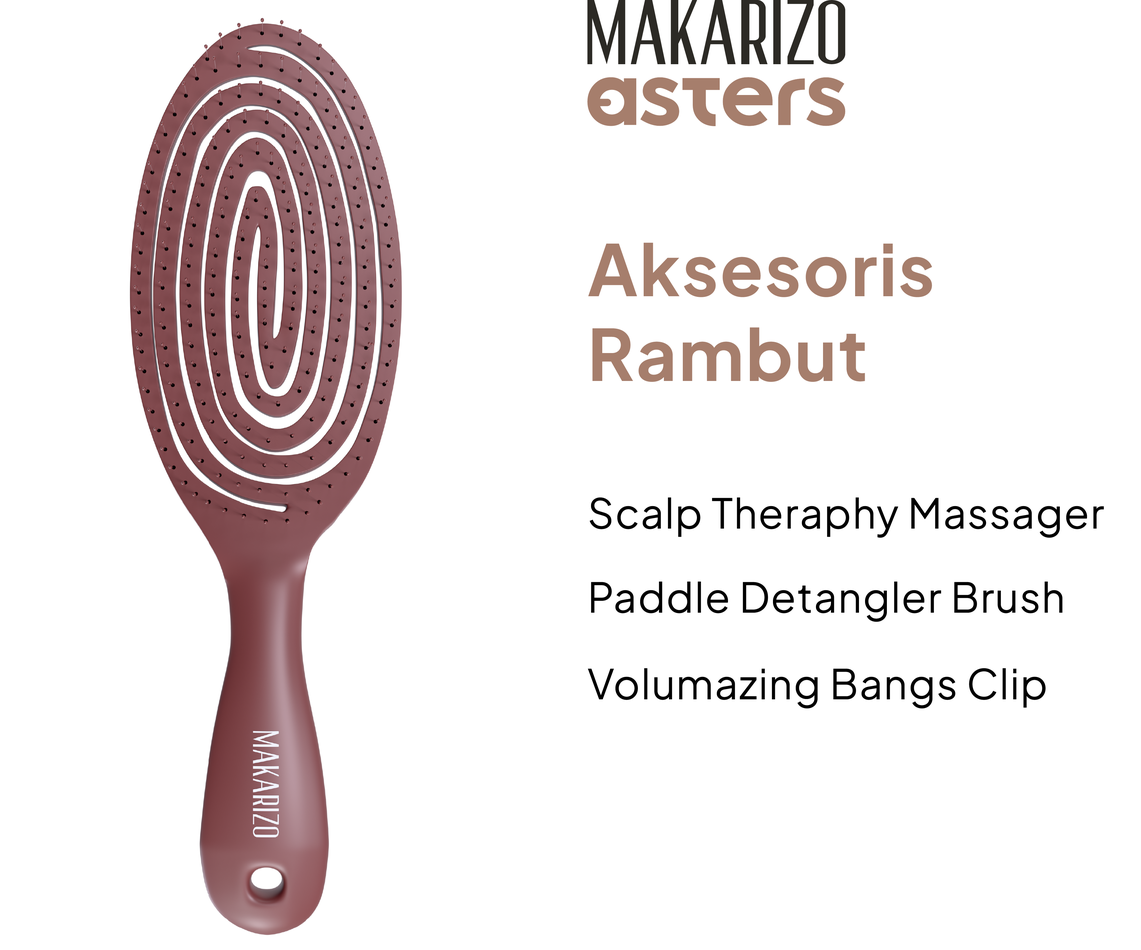
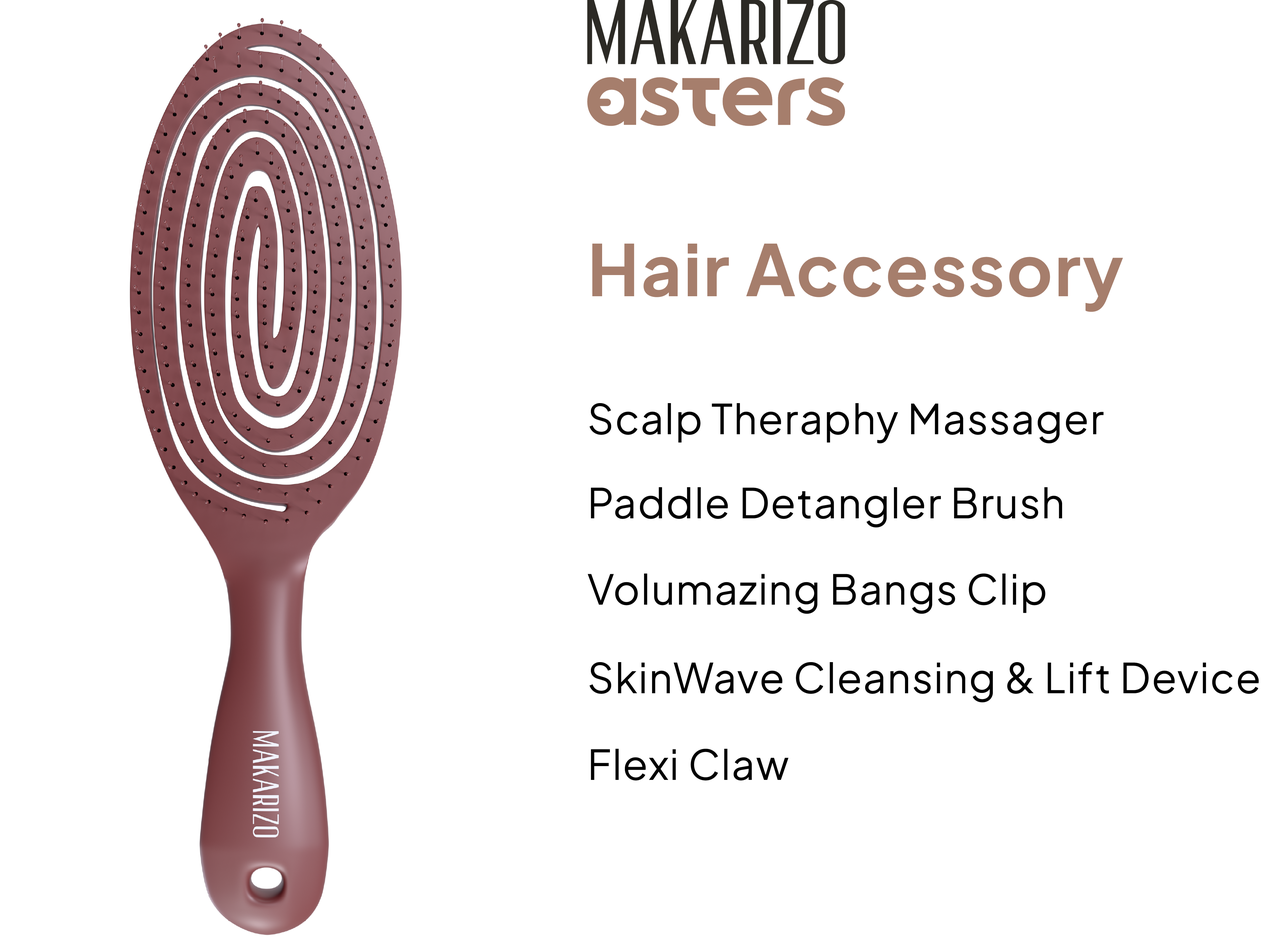
[IMP] : Update komposisi hero, showcase, dan aset berbagai brand
- Sesuaikan ukuran serta posisi produk pada hero dan showcase berbagai brand
- Tambahkan dukungan image fit dan object position untuk kartu sub-brand
- Tambahkan dua kartu showcase Asters Hair Accessories
- Lengkapi aset hero Advisor RX versi Indonesia
- Perbarui aset visual bilingual dan dokumentasi panduan aset

diff --git a/content/brands/055-advisor-rx.ts b/content/brands/055-advisor-rx.ts
@@ -26,20 +26,23 @@ const entry: Brand = {
     // Layered parallax banner, same pattern as Hair Energy: the product cluster sits
     // on the right of a flat clinical banner, wordmark + copy on the left. Array
     // order = stacking (last = front). Every canvas carries a DIFFERENT amount of
-    // transparent margin (the bottle fills only 67 % / 71 % / 85 % of its canvas
+    // transparent margin (the product fills a different fraction of each canvas
     // height), so the widths below are tuned per asset — they are deliberately not
-    // the same number — to land the three products at their true relative sizes
-    // (250 mL shampoo > 100 mL mask > 40 mL serum) and on a shared baseline.
+    // the same number — to land all four products at their true relative sizes
+    // (250 mL shampoo > 100 mL mask/tonic > 40 mL serum) and on a shared baseline.
     heroLayers: [
-      // Strong Hair Shampoo (250 mL) — largest, left of the cluster, enters from the LEFT (1st).
-      { src: "/brand/advisor-rx/hero/1.png", depth: 36, enterFrom: "left", enterDelay: 0, width: "min(41vw, 72vh)", maxWidth: "1944px", aspectRatio: "1 / 1", left: "39%", top: "15%",
-        mobile: { left: "-8.5%", top: "25%", width: "min(84vw, 42vh)" } },
-      // Strong Hair Boosting Mask (100 mL) — middle, enters from the TOP (2nd).
-      { src: "/brand/advisor-rx/hero/2.png", depth: 54, enterFrom: "top", enterDelay: 0.2, width: "min(30vw, 53vh)", maxWidth: "1493px", aspectRatio: "1 / 1", left: "56.5%", top: "30%",
+      // Strong Hair Boosting Mask (100 mL) — middle, enters from the TOP (1st).
+      { src: "/brand/advisor-rx/hero/2.png", depth: 54, enterFrom: "top", enterDelay: 0.2, width: "min(40vw, 63vh)", maxWidth: "1493px", aspectRatio: "1 / 1", left: "59%", top: "8%",
         mobile: { left: "29.5%", top: "35%", width: "min(60vw, 30vh)" } },
-      // Strong Hair Scalp Serum (40 mL) — smallest, front/right, enters from the RIGHT (3rd).
-      { src: "/brand/advisor-rx/hero/3.png", depth: 72, enterFrom: "right", enterDelay: 0.4, width: "min(13vw, 23vh)", maxWidth: "746px", aspectRatio: "1491 / 2058", left: "75.5%", top: "47%",
+      // Strong Hair Shampoo (250 mL) — largest, left of the cluster, enters from the LEFT (2nd).
+      { src: "/brand/advisor-rx/hero/1.png", depth: 36, enterFrom: "left", enterDelay: 0, width: "min(51vw, 82vh)", maxWidth: "1944px", aspectRatio: "1 / 1", left: "46.4%", top: "11.7%",
+        mobile: { left: "-8.5%", top: "25%", width: "min(84vw, 42vh)" } },
+      // Strong Hair Scalp Serum (40 mL) — smallest, front/right, enters from the RIGHT (4th).
+      { src: "/brand/advisor-rx/hero/4.png", depth: 84, enterFrom: "right", enterDelay: 0.6, width: "min(20vw, 30vh)", maxWidth: "746px", aspectRatio: "1491 / 2058", left: "67.8%", top: "49.5%",
         mobile: { left: "68%", top: "43.5%", width: "min(26vw, 13vh)" } },
+      // Strong Hair Tonic (100 mL) — between the mask and serum, enters from the RIGHT (3rd).
+      { src: "/brand/advisor-rx/hero/3.png", depth: 72, enterFrom: "right", enterDelay: 0.4, width: "min(40vw, 74vh)", maxWidth: "1711px", aspectRatio: "1 / 1", left: "62%", top: "17%",
+        mobile: { left: "35%", top: "33%", width: "min(72vw, 34vh)" } },
     ],
     // The wordmark is a plain lockup with no tagline baked in (unlike VICA/Wonhae),
     // so this hero keeps the full Hair Energy overlay: wordmark + tagline + subtitle
@@ -102,9 +105,11 @@ const entry: Brand = {
         // as wide as the banner (frameRatio ÷ clusterRatio). All values are %, so the
         // composition scales identically on mobile; no per-viewport override needed.
         // STRONG HAIR — 4-step regimen (cluster 5423×3139 → 2.127 / 1.728 ≈ 123 %)
-        { bg: "/brand/advisor-rx/showcase/1-2.png", product: "/brand/advisor-rx/showcase/1-1.png", bgAspect: "4810 / 2261", productAspect: "5423 / 3139", productHeight: "123%", href: "/brands/advisor-rx/strong-hair" },
+        { bg: "/brand/advisor-rx/showcase/1-2.png", product: "/brand/advisor-rx/showcase/1-1.png", bgAspect: "4810 / 2261", 
+          productAspect: "5423 / 3139", productHeight: "123%", productShiftY: "10%", href: "/brands/advisor-rx/strong-hair" },
         // GREY HAIR — 3-step regimen (cluster 5592×2330 → 2.128 / 2.400 ≈ 89 %)
-        { bg: "/brand/advisor-rx/showcase/2-2.png", product: "/brand/advisor-rx/showcase/2-1.png", bgAspect: "4810 / 2260", productAspect: "5592 / 2330", productHeight: "89%", href: "/brands/advisor-rx/grey-hair" },
+        { bg: "/brand/advisor-rx/showcase/2-2.png", product: "/brand/advisor-rx/showcase/2-1.png", bgAspect: "4810 / 2260", 
+          productAspect: "5592 / 2330", productHeight: "89%", productShiftY: "2%", href: "/brands/advisor-rx/grey-hair" },
       ],
     },
   };

diff --git a/content/brands/050-advisor.ts b/content/brands/050-advisor.ts
@@ -25,8 +25,6 @@ const entry: Brand = {
     // transparent padding, so the widths below are tuned per asset to make the three
     // bottles read at a comparable *visual* size (they are NOT the same number).
     heroLayers: [
-      { src: "/brand/advisor/hero/3.png", depth: 32, enterFrom: "top", enterDelay: 0.1, width: "min(24vw, 43vh)", aspectRatio: "1814 / 2527", left: "63%", top: "7%",
-        mobile: { left: "35%", top: "27%", width: "min(58vw, 32vh)" } },
       // Dual Defense Shampoo — front/centre, sits slightly lower, enters from the TOP (2nd).
       { src: "/brand/advisor/hero/2.png", depth: 72, enterFrom: "top", enterDelay: 0.2, width: "min(41vw, 65vh)", aspectRatio: "2812 / 3502", left: "56%", top: "5%",
         mobile: { left: "4%", top: "20.5%", width: "min(78vw, 38vh)" } },
@@ -34,8 +32,8 @@ const entry: Brand = {
       { src: "/brand/advisor/hero/1.png", depth: 36, enterFrom: "left", enterDelay: 0, width: "min(23vw, 36vh)", aspectRatio: "1560 / 2402", left: "57.7%", top: "39%",
         mobile: { left: "11.5%", top: "43%", width: "min(40vw, 26vh)" } },
       // Hair Mask Repair — back row, right of the cluster, enters from the RIGHT (3rd).
-      { src: "/brand/advisor/hero/4.png", depth: 27, enterFrom: "right", enterDelay: 0.4, width: "min(23vw, 36vh)", aspectRatio: "1814 / 2527", left: "60.8%", top: "23%",
-        mobile: { left: "40%", top: "33%", width: "min(40vw, 20vh)" } },
+      { src: "/brand/advisor/hero/3.png", depth: 32, enterFrom: "top", enterDelay: 0.1, width: "min(24vw, 43vh)", aspectRatio: "1814 / 2527", left: "69.5%", top: "30%",
+        mobile: { left: "35%", top: "27%", width: "min(58vw, 32vh)" } },
     ],
     // The wordmark carries no tagline of its own (unlike VICA/Wonhae), so the hero
     // keeps the full Hair Energy overlay: wordmark + tagline + subtitle + CTA. Copy is
@@ -97,15 +95,15 @@ const entry: Brand = {
         // banner — the Hair Energy proportion. All values are %, so the composition
         // scales identically on mobile; no per-viewport override is needed.
         // CLINICAL SHAMPOO — Dual Defense Shampoo
-        { bg: "/brand/advisor/showcase/1-2.png", product: "/brand/advisor/showcase/1-1.png", bgAspect: "4810 / 2260", productAspect: "1 / 1", productHeight: "150%" },
+        { bg: "/brand/advisor/showcase/1-2.png", product: "/brand/advisor/showcase/1-1.png", bgAspect: "4810 / 2260", productAspect: "1 / 1", productHeight: "125%", productShiftY: "-3%", },
         // HAIR MASK — Hair Mask Repair
-        { bg: "/brand/advisor/showcase/2-2.png", product: "/brand/advisor/showcase/2-1.png", bgAspect: "4810 / 2261", productAspect: "1 / 1", productHeight: "177%" },
+        { bg: "/brand/advisor/showcase/2-2.png", product: "/brand/advisor/showcase/2-1.png", bgAspect: "4810 / 2261", productAspect: "1 / 1", productHeight: "154%" },
         // HAIR TONIC — Hair & Scalp Tonic
-        { bg: "/brand/advisor/showcase/3-2.png", product: "/brand/advisor/showcase/3-1.png", bgAspect: "4810 / 2260", productAspect: "2652 / 3400", productHeight: "180%" },
+        { bg: "/brand/advisor/showcase/3-2.png", product: "/brand/advisor/showcase/3-1.png", bgAspect: "4810 / 2260", productAspect: "2652 / 3400", productHeight: "150%", productShiftY: "5%", },
         // VITAMAX — Hair Recovery Vitamax
-        { bg: "/brand/advisor/showcase/4-2.png", product: "/brand/advisor/showcase/4-1.png", bgAspect: "4810 / 2260", productAspect: "1 / 1", productHeight: "158%" },
+        { bg: "/brand/advisor/showcase/4-2.png", product: "/brand/advisor/showcase/4-1.png", bgAspect: "4810 / 2260", productAspect: "1 / 1", productHeight: "140%", productShiftY: "2%", },
         // KERATIN SPRAY — Hair Protection Keratin Spray
-        { bg: "/brand/advisor/showcase/5-2.png", product: "/brand/advisor/showcase/5-1.png", bgAspect: "4810 / 2260", productAspect: "1 / 1", productHeight: "152%" },
+        { bg: "/brand/advisor/showcase/5-2.png", product: "/brand/advisor/showcase/5-1.png", bgAspect: "4810 / 2260", productAspect: "1 / 1", productHeight: "132%", productShiftY: "3.5%", },
       ],
     },
   };

diff --git a/content/sub-brands/110-inoskin--young-and-bright.ts b/content/sub-brands/110-inoskin--young-and-bright.ts
@@ -22,27 +22,27 @@ const entry: SubBrand = {
     // the lg breakpoint; the third `px` term on the serum caps it at half its natural
     // 1471px width so it stays sharp at DPR 2 on very wide screens.
     heroLayers: [
-      { src: "/brand/inoskin/young-and-bright/hero/2.png", enterFrom: "right", enterDelay: 0.4, depth: 34, width: "min(31vw, 60vh, 1196px)", aspectRatio: "2391 / 4018", left: "63%", top: "6%",
+      { src: "/brand/inoskin/young-and-bright/hero/2.png", enterFrom: "right", enterDelay: 0.4, depth: 34, width: "min(27vw, 56vh, 1196px)", aspectRatio: "2391 / 4018", left: "62%", top: "11%",
         mobile: { left: "46.5%", top: "-5.6%", width: "60%" } },
-      { src: "/brand/inoskin/young-and-bright/hero/1.png", enterFrom: "left", enterDelay: 0.2, depth: 48, width: "min(30vw, 60vh, 1133px)", aspectRatio: "2265 / 3199", left: "54%", top: "10%",
+      { src: "/brand/inoskin/young-and-bright/hero/1.png", enterFrom: "left", enterDelay: 0.2, depth: 48, width: "min(26vw, 56vh, 1133px)", aspectRatio: "2265 / 3199", left: "54.5%", top: "15%",
         mobile: { left: "2.3%", top: "-6%", width: "58%" } },
-      { src: "/brand/inoskin/young-and-bright/hero/3.png", enterFrom: "right", enterDelay: 0.6, depth: 62, width: "min(22.5vw, 40vh, 735px)", aspectRatio: "1471 / 2306", left: "73%", top: "30%",
+      { src: "/brand/inoskin/young-and-bright/hero/3.png", enterFrom: "right", enterDelay: 0.6, depth: 62, width: "min(18.5vw, 36vh, 735px)", aspectRatio: "1471 / 2306", left: "72.5%", top: "35%",
         mobile: { left: "35.6%", top: "22.8%", width: "46%" } },
     ],
     showcaseTitle: "/brand/inoskin/young-and-bright/showcase/title.png",
     showcaseTitleAspect: "4834 / 3846",
     // No `featured` slot: every card asset in this folder is a portrait SKU card —
     // there is no landscape hero card, and the reference doesn't show one either.
-    // `cardAspect` follows the TALLEST card (1.png, 2304×3281) so all five keep an
-    // identical column width under `object-contain`; the shorter cards simply centre
-    // inside their box rather than being scaled down and narrowed.
-    cardAspect: "2304 / 3281",
+    // The visible card canvas is consistently 2304×2987. Files 1, 2 and 5 carry extra
+    // transparent canvas padding on different edges, so cover + edge anchoring trims
+    // only that padding and keeps every visible card aligned with equal grid gaps.
+    cardAspect: "2304 / 2987",
     cards: [
-      { image: "/brand/inoskin/young-and-bright/showcase/1.png", label: { en: "Young and Bright Toner", id: "Young and Bright Toner" } },
-      { image: "/brand/inoskin/young-and-bright/showcase/2.png", label: { en: "Young and Bright Serum", id: "Young and Bright Serum" } },
-      { image: "/brand/inoskin/young-and-bright/showcase/3.png", label: { en: "Young and Bright Moisturizer", id: "Young and Bright Moisturizer" } },
-      { image: "/brand/inoskin/young-and-bright/showcase/4.png", label: { en: "Collagen Firming Mask", id: "Masker Pengencang Collagen" } },
-      { image: "/brand/inoskin/young-and-bright/showcase/5.png", label: { en: "Triple Power Cleanser", id: "Pembersih Wajah Triple Power" } },
+      { image: "/brand/inoskin/young-and-bright/showcase/1.png", imageFit: "cover", imagePosition: "bottom", label: { en: "Young and Bright Toner", id: "Young and Bright Toner" } },
+      { image: "/brand/inoskin/young-and-bright/showcase/2.png", imageFit: "cover", imagePosition: "top", label: { en: "Young and Bright Serum", id: "Young and Bright Serum" } },
+      { image: "/brand/inoskin/young-and-bright/showcase/3.png", imageFit: "cover", label: { en: "Young and Bright Moisturizer", id: "Young and Bright Moisturizer" } },
+      { image: "/brand/inoskin/young-and-bright/showcase/4.png", imageFit: "cover", label: { en: "Collagen Firming Mask", id: "Masker Pengencang Collagen" } },
+      { image: "/brand/inoskin/young-and-bright/showcase/5.png", imageFit: "cover", imagePosition: "bottom", label: { en: "Triple Power Cleanser", id: "Pembersih Wajah Triple Power" } },
     ],
   };
 

diff --git a/content/brands/110-honey-dew.ts b/content/brands/110-honey-dew.ts
@@ -33,15 +33,15 @@ const entry: Brand = {
     heroLayers: [
       // Deep Moist & Shine Shampoo — back, highest, enters from the TOP (1st).
       // Visible bottle ≈ 15.5 vw wide, spanning 14 %–43 % of the banner height.
-      { src: "/brand/honey-dew/hero/2.png", depth: 36, enterFrom: "top", enterDelay: 0, width: "min(30vw, 34vh)", maxWidth: "836px", aspectRatio: "1672 / 2451", left: "65.5%", top: "16.5%",
+      { src: "/brand/honey-dew/hero/2.png", depth: 36, enterFrom: "top", enterDelay: 0, width: "min(40vw, 42vh)", maxWidth: "836px", aspectRatio: "1672 / 2451", left: "63.5%", top: "10.5%",
         mobile: { left: "26%", top: "25%", width: "min(42vw, 24vh)" } },
       // Repair Mask — in front of the bottle and a touch larger than it (the
       // reference sizes the tube at ~1.15× the bottle); visible tube ≈ 17.5 vw,
       // spanning 24 %–58 % of the banner height.
-      { src: "/brand/honey-dew/hero/3.png", depth: 66, enterFrom: "right", enterDelay: 0.3, width: "min(45.7vw, 54vh)", maxWidth: "1529px", aspectRatio: "3058 / 3865", left: "66.2%", top: "27.2%",
+      { src: "/brand/honey-dew/hero/3.png", depth: 66, enterFrom: "right", enterDelay: 0.3, width: "min(56.7vw, 63vh)", maxWidth: "1529px", aspectRatio: "3058 / 3865", left: "66.2%", top: "24.2%",
         mobile: { left: "26%", top: "30%", width: "min(75vw, 41vh)" } },
       // Nutriv Serum — front left, smallest, enters from the LEFT (2nd).
-      { src: "/brand/honey-dew/hero/1.png", depth: 54, enterFrom: "left", enterDelay: 0.15, width: "min(40vw, 45vh)", maxWidth: "1139px", aspectRatio: "2278 / 2569", left: "57.5%", top: "38%",
+      { src: "/brand/honey-dew/hero/1.png", depth: 54, enterFrom: "left", enterDelay: 0.15, width: "min(46.5vw, 50vh)", maxWidth: "1139px", aspectRatio: "2278 / 2569", left: "55%", top: "39.6%",
         mobile: { left: "3%", top: "35%", width: "min(60vw, 34vh)" } },
     ],
     // The wordmark is a plain "HONEY DEW" lockup with no tagline baked in, so the
@@ -95,7 +95,7 @@ const entry: Brand = {
         // PNG's own transparent top/bottom margin (7.2 % / 4.0 % here).
         { bg: "/brand/honey-dew/showcase/1-2.png", bgAspect: "4810 / 2261", product: "/brand/honey-dew/showcase/1-1.png", productAspect: "1672 / 2451", productHeight: "106%", productShiftX: "12%", mobile: { productHeight: "102%" }, href: "/brands/honey-dew/shampoo" },
         // Two-tube cluster: 20.6 % top / 17.5 % bottom margin → 134 % is the ceiling.
-        { bg: "/brand/honey-dew/showcase/2-2.png", bgAspect: "4810 / 2260", product: "/brand/honey-dew/showcase/2-1.png", productAspect: "2399 / 2689", productHeight: "134%", mobile: { productHeight: "128%" }, href: "/brands/honey-dew/hair-serum" },
+        { bg: "/brand/honey-dew/showcase/2-2.png", bgAspect: "4810 / 2260", product: "/brand/honey-dew/showcase/2-1.png", productAspect: "2399 / 2689", productHeight: "134%", productShiftY: "-2.5%", mobile: { productHeight: "128%" }, href: "/brands/honey-dew/hair-serum" },
       ],
     },
   };

diff --git a/content/brands/180-make-it.ts b/content/brands/180-make-it.ts
@@ -72,24 +72,25 @@ const entry: Brand = {
       { title: { en: "A Unique Scent", id: "Aroma Yang Unik" }, image: "/brand/makeit/about/3.png" },
     ],
     // Showcase — the "#1 Primer Parfum" poster, then the three range banners.
-    // The banner art is a designed card (4810×2261, rounded corners baked in), so
-    // `bannerAspect` keeps it uncropped; each `bgAspect` is a touch taller than the
-    // frame so the scroll parallax drifts inside the overflow instead of exposing an
-    // empty strip. There are no sub-brand pages, so the banners carry no `href`.
+    // The banner art is a finished card with wording close to every edge. The frame
+    // and each background use the asset's exact ratio, while background parallax is
+    // disabled so no copy is cropped during scroll. There are no sub-brand pages, so
+    // the banners carry no `href`.
     showcase: {
       hero: "/brand/makeit/showcase/title.png",
       heroAspect: "4325 / 4280",
       productAlign: "center",
       bannerAspect: "4810 / 2261",
+      parallax: false,
       variants: [
         // Fragrance Enhancing Primer — Essence Sanctuary
-        { bg: "/brand/makeit/showcase/1-2.png", bgAspect: "4810 / 2440", product: "/brand/makeit/showcase/1-1.png", productAspect: "2547 / 3799", productHeight: "180%", productShiftX: "-11%", productShiftY: "-1.5%",
+        { bg: "/brand/makeit/showcase/1-2.png", bgAspect: "4810 / 2261", product: "/brand/makeit/showcase/1-1.png", productAspect: "2547 / 3799", productHeight: "155%", productShiftX: "-11%", productShiftY: "-1.5%",
           mobile: { productHeight: "168%", productShiftX: "-9%" } },
         // Extrait d'Intense Parfum — Mango Glacé
-        { bg: "/brand/makeit/showcase/2-2.png", bgAspect: "4810 / 2440", product: "/brand/makeit/showcase/2-1.png", productAspect: "1977 / 3514", productHeight: "172%", productShiftX: "-6%", productShiftY: "-4%",
+        { bg: "/brand/makeit/showcase/2-2.png", bgAspect: "4810 / 2260", product: "/brand/makeit/showcase/2-1.png", productAspect: "1977 / 3514", productHeight: "150%", productShiftX: "-6%", productShiftY: "-4%",
           mobile: { productHeight: "160%", productShiftX: "-5%" } },
         // Extrait de Parfum — Keep in Touch
-        { bg: "/brand/makeit/showcase/3-2.png", bgAspect: "4810 / 2440", product: "/brand/makeit/showcase/3-1.png", productAspect: "2359 / 3713", productHeight: "176%", productShiftX: "-8%",
+        { bg: "/brand/makeit/showcase/3-2.png", bgAspect: "4810 / 2260", product: "/brand/makeit/showcase/3-1.png", productAspect: "2359 / 3713", productHeight: "155%", productShiftX: "-8%",
           mobile: { productHeight: "164%", productShiftX: "-7%" } },
       ],
     },

diff --git a/content/brands/140-texture-experience.ts b/content/brands/140-texture-experience.ts
@@ -138,27 +138,27 @@ const entry: Brand = {
       variants: [
         // STRAWBERRY YOGHURT — creambath tube + Berry Smoothie hair perfume
         { bg: "/brand/texture-experience/showcase/1-2.png", product: "/brand/texture-experience/showcase/1-1.png",
-          bgAspect: "4810 / 2260", productAspect: "2289 / 2711", productHeight: "133%",
+          bgAspect: "4810 / 2260", productAspect: "2289 / 2711", productHeight: "125.5%",
           productShiftX: "5.6%", productShiftY: "3.1%",
           href: "/brands/texture-experience/strawberry-yoghurt" },
         // GREEN TEA BUTTER — creambath tube + Tea Blossom hair perfume
         { bg: "/brand/texture-experience/showcase/2-2.png", product: "/brand/texture-experience/showcase/2-1.png",
-          bgAspect: "4810 / 2260", productAspect: "2636 / 2794", productHeight: "132%",
+          bgAspect: "4810 / 2260", productAspect: "2636 / 2794", productHeight: "124.5%",
           productShiftX: "-2.6%", productShiftY: "-3.8%",
           href: "/brands/texture-experience/green-tea-butter" },
         // BLACK CHOCOLATE — creambath tube + Choco Hazelnut hair perfume
         { bg: "/brand/texture-experience/showcase/3-2.png", product: "/brand/texture-experience/showcase/3-1.png",
-          bgAspect: "4810 / 2260", productAspect: "2242 / 2664", productHeight: "133%",
+          bgAspect: "4810 / 2260", productAspect: "2242 / 2664", productHeight: "125%",
           productShiftX: "-6.7%", productShiftY: "-6.7%",
           href: "/brands/texture-experience/black-chocolate" },
         // VANILLA MILK — creambath tube + Vanilla Souffle hair perfume
         { bg: "/brand/texture-experience/showcase/4-2.png", product: "/brand/texture-experience/showcase/4-1.png",
-          bgAspect: "4810 / 2260", productAspect: "2860 / 3084", productHeight: "157%",
+          bgAspect: "4810 / 2260", productAspect: "2860 / 3084", productHeight: "147%",
           productShiftX: "8.1%", productShiftY: "2.3%",
           href: "/brands/texture-experience/vanilla-milk" },
         // MINT SORBET — creambath tube + Mint Mocktail hair perfume
         { bg: "/brand/texture-experience/showcase/5-2.png", product: "/brand/texture-experience/showcase/5-1.png",
-          bgAspect: "4810 / 2260", productAspect: "2526 / 2359", productHeight: "132%",
+          bgAspect: "4810 / 2260", productAspect: "2526 / 2359", productHeight: "124.5%",
           productShiftX: "-10.5%", productShiftY: "0.3%",
           href: "/brands/texture-experience/mint-sorbet" },
       ],

diff --git a/content/brands/070-t1.ts b/content/brands/070-t1.ts
@@ -109,20 +109,20 @@ const entry: Brand = {
       variants: [
         // Micellar — shampoo + conditioner (canvas padding: 23% top / 11% bottom).
         { bg: "/brand/t1/showcase/1-2.png", product: "/brand/t1/showcase/1-1.png",
-          bgAspect: "4810 / 2261", productAspect: "3144 / 3214", productHeight: "184%", productShiftY: "-6%",
+          bgAspect: "4810 / 2261", productAspect: "3144 / 3214", productHeight: "145%", productShiftY: "-6%",
           href: "/brands/t1/micellar" },
         // Equalizer — shampoo + conditioner (23% / 11%).
         { bg: "/brand/t1/showcase/2-2.png", product: "/brand/t1/showcase/2-1.png",
-          bgAspect: "4810 / 2261", productAspect: "3057 / 3178", productHeight: "185%", productShiftY: "-6%",
+          bgAspect: "4810 / 2261", productAspect: "3057 / 3178", productHeight: "145%", productShiftY: "-6%",
           href: "/brands/t1/equalizer" },
         // Rosemary Oil — protein cream + scalp & hair oil (45% / 13%: the pair sits in
         // the lower half of its canvas, hence the much bigger box and shift).
         { bg: "/brand/t1/showcase/3-2.png", product: "/brand/t1/showcase/3-1.png",
-          bgAspect: "4810 / 2260", productAspect: "4174 / 4068", productHeight: "265%", productShiftY: "-16%",
+          bgAspect: "4810 / 2260", productAspect: "4174 / 4068", productHeight: "215%", productShiftY: "-16%",
           href: "/brands/t1/rosemary-oil" },
         // Indigo Blue — body wash + mask + lotion (22% / 17%).
         { bg: "/brand/t1/showcase/4-2.png", product: "/brand/t1/showcase/4-1.png",
-          bgAspect: "4810 / 2260", productAspect: "3759 / 3072", productHeight: "188%", productShiftY: "-3%",
+          bgAspect: "4810 / 2260", productAspect: "3759 / 3072", productHeight: "155%", productShiftY: "-3%",
           href: "/brands/t1/indigo-blue" },
       ],
     },

diff --git a/content/brands/160-inoskin.ts b/content/brands/160-inoskin.ts
@@ -24,13 +24,13 @@ const entry: Brand = {
     // half its natural pixel width so nothing renders above its own resolution at DPR 2.
     heroLayers: [
       // Collagen Firming Mask — tilted, top of the cluster, enters from the TOP (3rd).
-      { src: "/brand/inoskin/hero/2.png", depth: 30, enterFrom: "top", enterDelay: 0.2, width: "min(34.3vw, 65vh)", maxWidth: "1300px", aspectRatio: "2438 / 2701", left: "60%", top: "0%",
+      { src: "/brand/inoskin/hero/2.png", depth: 30, enterFrom: "top", enterDelay: 0.2, width: "min(29.3vw, 60vh)", maxWidth: "1300px", aspectRatio: "2438 / 2701", left: "61.5%", top: "5%",
         mobile: { left: "25%", top: "15%", width: "min(52vw, 100vh)" } },
       // Triple Power Cleanser — right of the cluster, enters from the RIGHT (2nd).
-      { src: "/brand/inoskin/hero/3.png", depth: 20, enterFrom: "right", enterDelay: 0.35, width: "min(36.6vw, 45vh)", maxWidth: "873px", aspectRatio: "1746 / 3103", left: "70%", top: "20%",
+      { src: "/brand/inoskin/hero/3.png", depth: 20, enterFrom: "right", enterDelay: 0.35, width: "min(31.6vw, 40vh)", maxWidth: "873px", aspectRatio: "1746 / 3103", left: "71.5%", top: "25%",
         mobile: { left: "40%", top: "28%", width: "min(48vw, 22vh)" } },
       // Young and Bright Toner — front/left of the cluster, enters from the LEFT (1st).
-      { src: "/brand/inoskin/hero/1.png", depth: 66, enterFrom: "left", enterDelay: 0, width: "min(39.6vw, 45vh)", maxWidth: "872px", aspectRatio: "1745 / 3103", left: "55%", top: "15%",
+      { src: "/brand/inoskin/hero/1.png", depth: 66, enterFrom: "left", enterDelay: 0, width: "min(34.6vw, 40vh)", maxWidth: "872px", aspectRatio: "1745 / 3103", left: "56.5%", top: "20%",
         mobile: { left: "22%", top: "31%", width: "min(52vw, 22vh)" } },
     ],
     heroContent: {

diff --git a/content/brands/135-hydroprisma.ts b/content/brands/135-hydroprisma.ts
@@ -32,13 +32,13 @@ const entry: Brand = {
     // short window; positions are % so the composition holds at any width.
     heroLayers: [
       // Step 1 Straightening Cream pouch — right, slightly lower, enters from the RIGHT (3rd).
-      { src: "/brand/hydroprisma/hero/3.png", depth: 54, enterFrom: "right", enterDelay: 0.4, width: "min(41vw, 52vh)", maxWidth: "1037px", aspectRatio: "2073 / 2074", left: "67%", top: "22.7%",
+      { src: "/brand/hydroprisma/hero/3.png", depth: 54, enterFrom: "right", enterDelay: 0.4, width: "min(53vw, 64vh)", maxWidth: "1037px", aspectRatio: "2073 / 2074", left: "68%", top: "17.7%",
         mobile: { left: "39%", top: "33%", width: "min(52vw, 40vh)" } },
       // Step 2 Milky Neutralizer — back, centre, enters from the TOP (1st).
-      { src: "/brand/hydroprisma/hero/2.png", depth: 36, enterFrom: "top", enterDelay: 0, width: "min(42vw, 53vh)", maxWidth: "1302px", aspectRatio: "1 / 1", left: "58.5%", top: "21.5%",
+      { src: "/brand/hydroprisma/hero/2.png", depth: 36, enterFrom: "top", enterDelay: 0, width: "min(54vw, 65vh)", maxWidth: "1302px", aspectRatio: "1 / 1", left: "57.5%", top: "16.5%",
         mobile: { left: "22%", top: "32%", width: "min(54vw, 42vh)" } },
       // Step 1 Straightening Cream jar — front, lowest, enters from the LEFT (2nd).
-      { src: "/brand/hydroprisma/hero/1.png", depth: 72, enterFrom: "left", enterDelay: 0.2, width: "min(42vw, 51vh)", maxWidth: "1192px", aspectRatio: "1 / 1", left: "51%", top: "37%",
+      { src: "/brand/hydroprisma/hero/1.png", depth: 72, enterFrom: "left", enterDelay: 0.2, width: "min(54vw, 63vh)", maxWidth: "1192px", aspectRatio: "1 / 1", left: "48%", top: "34%",
         mobile: { left: "7%", top: "40%", width: "min(50vw, 40vh)" } },
     ],
     heroContent: {

diff --git a/content/brands/130-rebonding-system.ts b/content/brands/130-rebonding-system.ts
@@ -97,16 +97,16 @@ const entry: Brand = {
       variants: [
         // SUPER GOLD — SG+ jar (tight render, 78% fill)
         { bg: "/brand/rebonding-system/showcase/1-2.png", product: "/brand/rebonding-system/showcase/1-1.png",
-          bgAspect: "4810 / 2261", productAspect: "2132 / 2100", productHeight: "57%", productShiftY: "-20%" },
+          bgAspect: "4810 / 2261", productAspect: "2132 / 2100", productHeight: "85%", productShiftY: "-5%" },
         // GOLD EDITION — GE+ jar (padded render, 63% fill → taller box for the same jar)
         { bg: "/brand/rebonding-system/showcase/2-2.png", product: "/brand/rebonding-system/showcase/2-1.png",
-          bgAspect: "4810 / 2260", productAspect: "1922 / 2045", productHeight: "75%", productShiftY: "-20%" },
+          bgAspect: "4810 / 2260", productAspect: "1922 / 2045", productHeight: "95%", productShiftY: "-9%" },
         // ANTI RESISTANT — AR+ jar (tight render)
         { bg: "/brand/rebonding-system/showcase/3-2.png", product: "/brand/rebonding-system/showcase/3-1.png",
-          bgAspect: "4810 / 2260", productAspect: "2004 / 1965", productHeight: "57%", productShiftY: "-20%" },
+          bgAspect: "4810 / 2260", productAspect: "2004 / 1965", productHeight: "85%", productShiftY: "-10%" },
         // EXTREMELY DAMAGED — ED+ jar (padded render)
         { bg: "/brand/rebonding-system/showcase/4-2.png", product: "/brand/rebonding-system/showcase/4-1.png",
-          bgAspect: "4810 / 2261", productAspect: "1922 / 2045", productHeight: "75%", productShiftY: "-20%" },
+          bgAspect: "4810 / 2261", productAspect: "1922 / 2045", productHeight: "95%", productShiftY: "-10%" },
       ],
     },
   };

diff --git a/content/brands/040-asters.ts b/content/brands/040-asters.ts
@@ -74,8 +74,8 @@ const entry: Brand = {
         // 1-1.png carries a 14.7% transparent top margin, so the box is lifted
         // (`productShiftY`) to sit the tools optically centred and keep their handles
         // clear of the caption baked into the bottom 85–94% of the banner art.
-        { bg: "/brand/asters/showcase/1-2.png", bgAspect: "4810 / 2261", product: "/brand/asters/showcase/1-1.png", productAspect: "2148 / 2363", productHeight: "87%", productShiftX: "10%", productShiftY: "-9%", href: "/brands/asters/styling-tools" },
-        { bg: "/brand/asters/showcase/2-2.png", bgAspect: "4810 / 2260", product: "/brand/asters/showcase/2-1.png", productAspect: "2828 / 2058", productHeight: "90%", href: "/brands/asters/hair-accessories" },
+        { bg: "/brand/asters/showcase/1-2.png", bgAspect: "4810 / 2261", product: "/brand/asters/showcase/1-1.png", productAspect: "2148 / 2363", productHeight: "110%", productShiftX: "10%", productShiftY: "-9%", href: "/brands/asters/styling-tools" },
+        { bg: "/brand/asters/showcase/2-2.png", bgAspect: "4810 / 2260", product: "/brand/asters/showcase/2-1.png", productAspect: "2828 / 2058", productHeight: "112%", href: "/brands/asters/hair-accessories" },
       ],
     },
   };

diff --git a/content/sub-brands/080-asters--hair-accessories.ts b/content/sub-brands/080-asters--hair-accessories.ts
@@ -24,6 +24,9 @@ const entry: SubBrand = {
       { image: "/brand/asters/hair-accessories/showcase/1.png", label: { en: "Asters Paddle Detangler Brush", id: "Asters Paddle Detangler Brush" } },
       { image: "/brand/asters/hair-accessories/showcase/2.png", label: { en: "Asters Volumizing Bangs Clip", id: "Asters Volumizing Bangs Clip" } },
       { image: "/brand/asters/hair-accessories/showcase/3.png", label: { en: "Asters Scalp Therapy Massager", id: "Asters Scalp Therapy Massager" } },
+      { image: "/brand/asters/hair-accessories/showcase/4.png", label: { en: "Asters Skinwave Cleansing & Lift Device", id: "Asters Skinwave Cleansing & Lift Device" } },
+      { image: "/brand/asters/hair-accessories/showcase/5.png", label: { en: "Asters Flexi Claw", id: "Asters Flexi Claw" } },
+
     ],
   };
 
